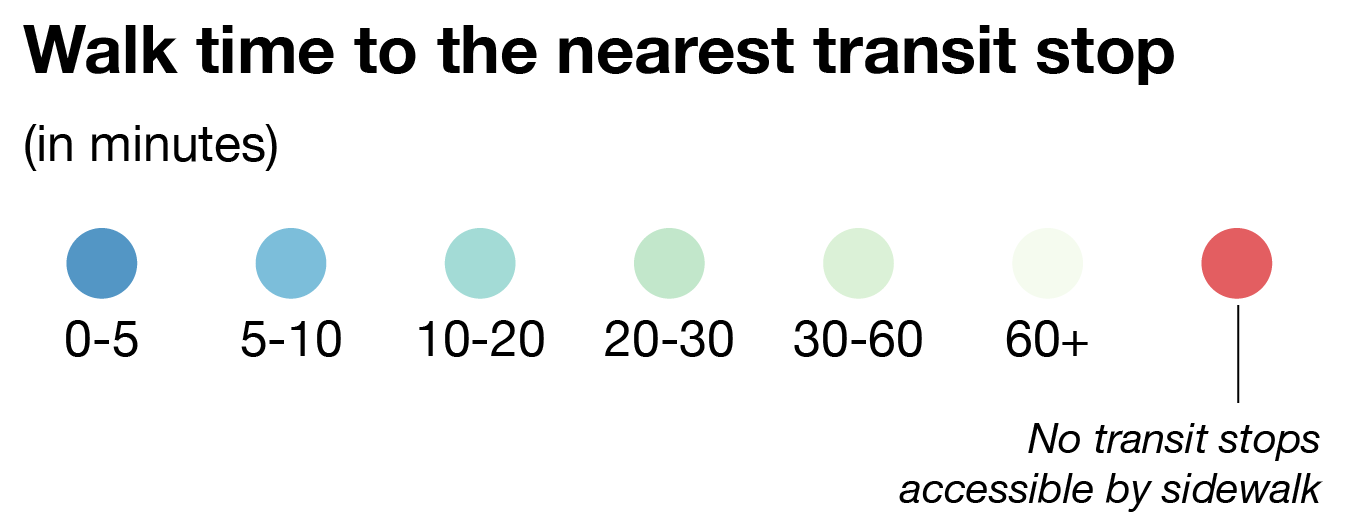
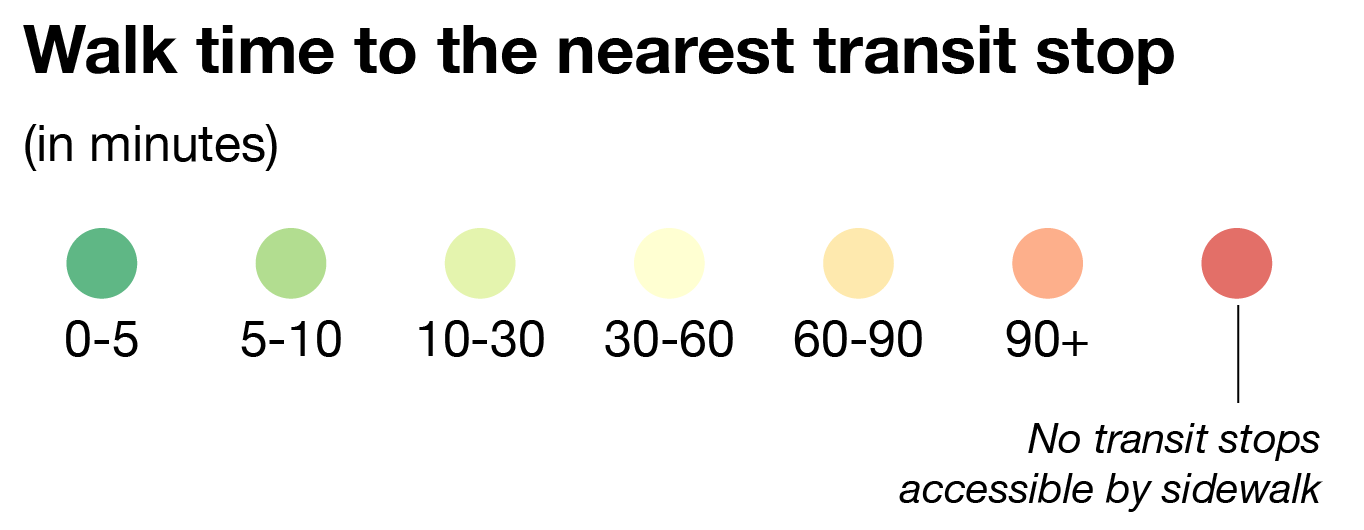
data color tweaks

diff --git a/js/mapLayers.js b/js/mapLayers.js
@@ -111,13 +111,13 @@ const layers = {
       "circle-color": {
         property: "walk_time",
         stops: [
-          [0, "rgba(8,104,172,0.7)"],
-          [5, "rgba(67,162,202,0.7)"],
-          [10, "rgba(123,204,196,0.7)"],
-          [20, "rgba(168,221,181,0.7)"],
-          [30, "rgba(204,235,197,0.7)"],
-          [60, "rgba(240,249,232,0.7)"],
-          [180, "rgba(215,25,28,0.7)"],
+          [0, "rgba(26,152,80,0.7)"],
+          [5, "rgba(145,207,96,0.7)"],
+          [10, "rgba(217,239,139,0.7)"],
+          [30, "rgba(255,255,191,0.7)"],
+          [60, "rgba(254,224,139,0.7)"],
+          [179, "rgba(252,141,89,0.7)"],
+          [180, "rgba(215,48,39,0.7)"],
         ],
       },
     },

diff --git a/css/styles.css b/css/styles.css
@@ -327,3 +327,6 @@ address {
   font-weight: bold;
   color: var(--theme-dark);
 }
+.legend-sidewalk {
+  color: var(--theme-dark);
+}
